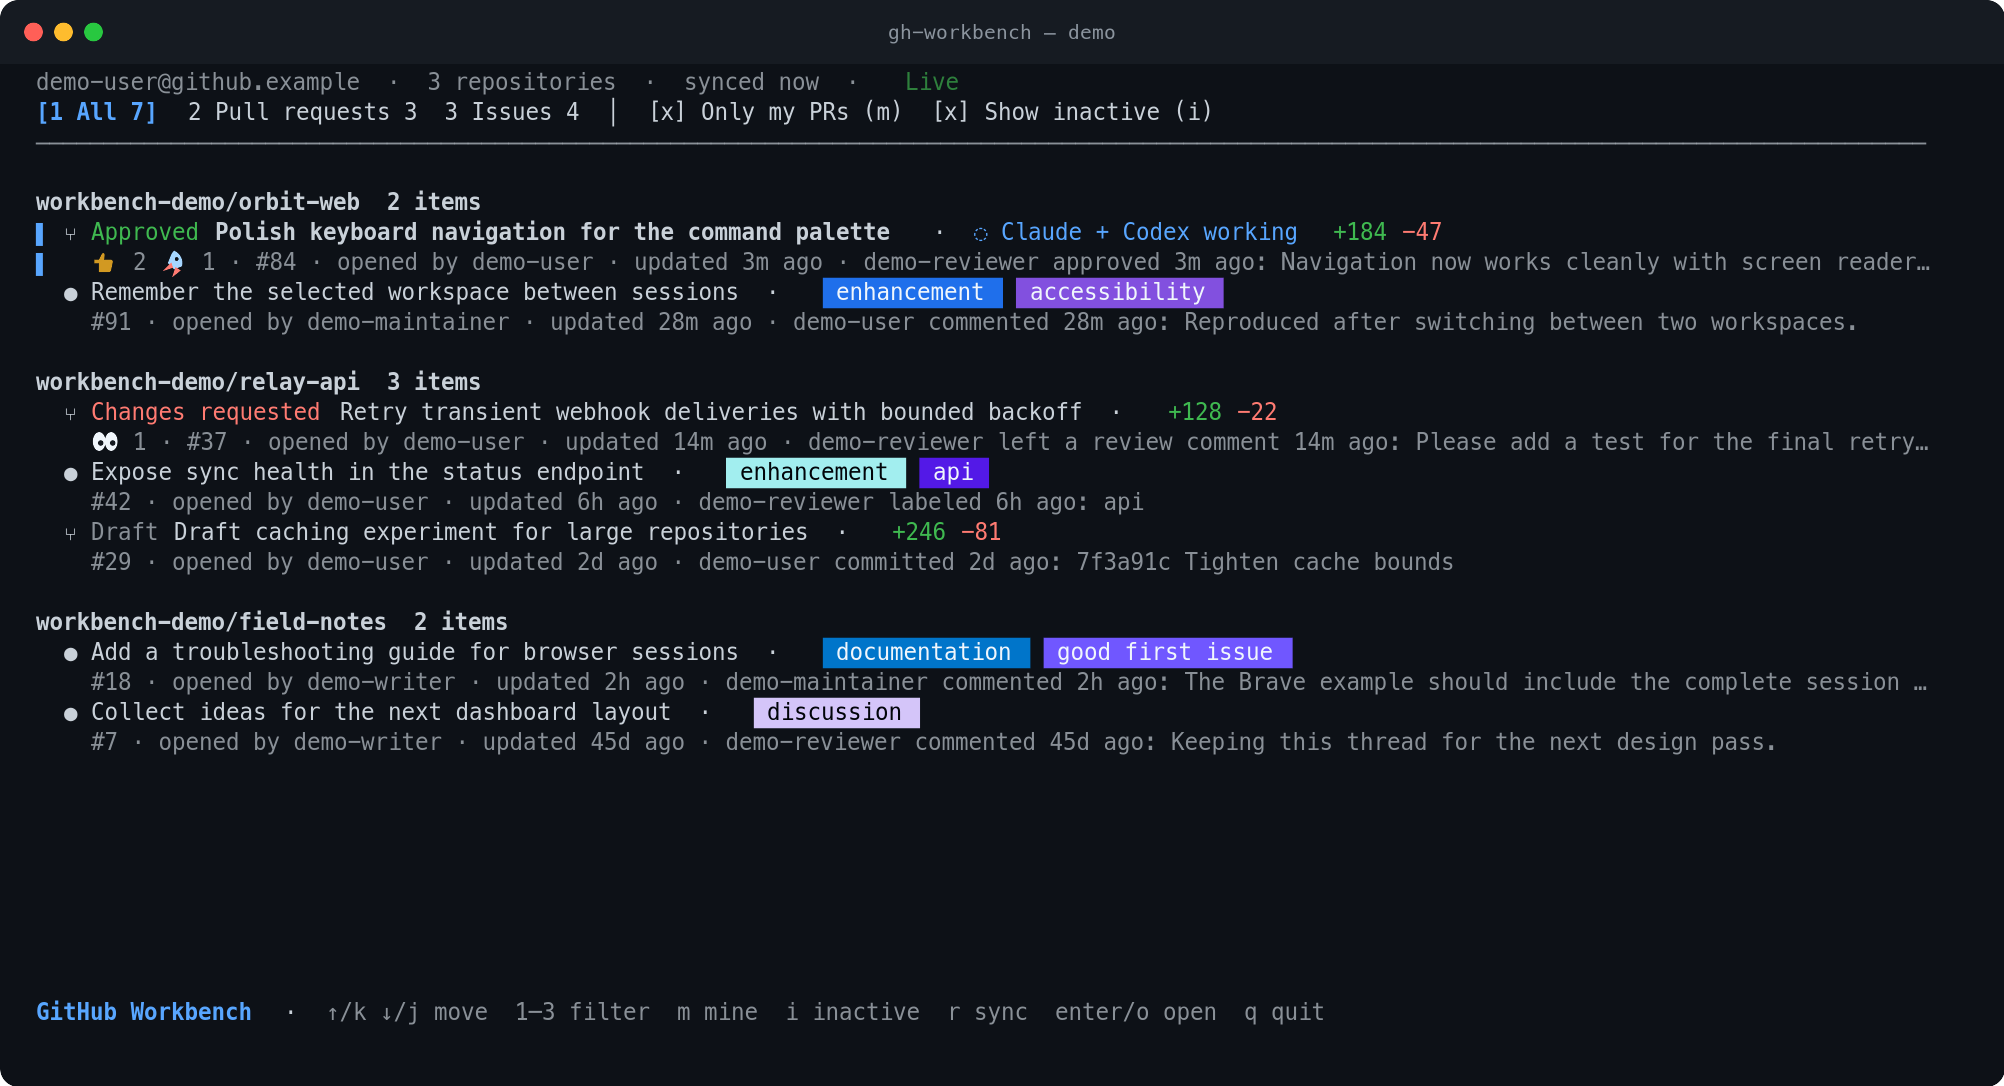
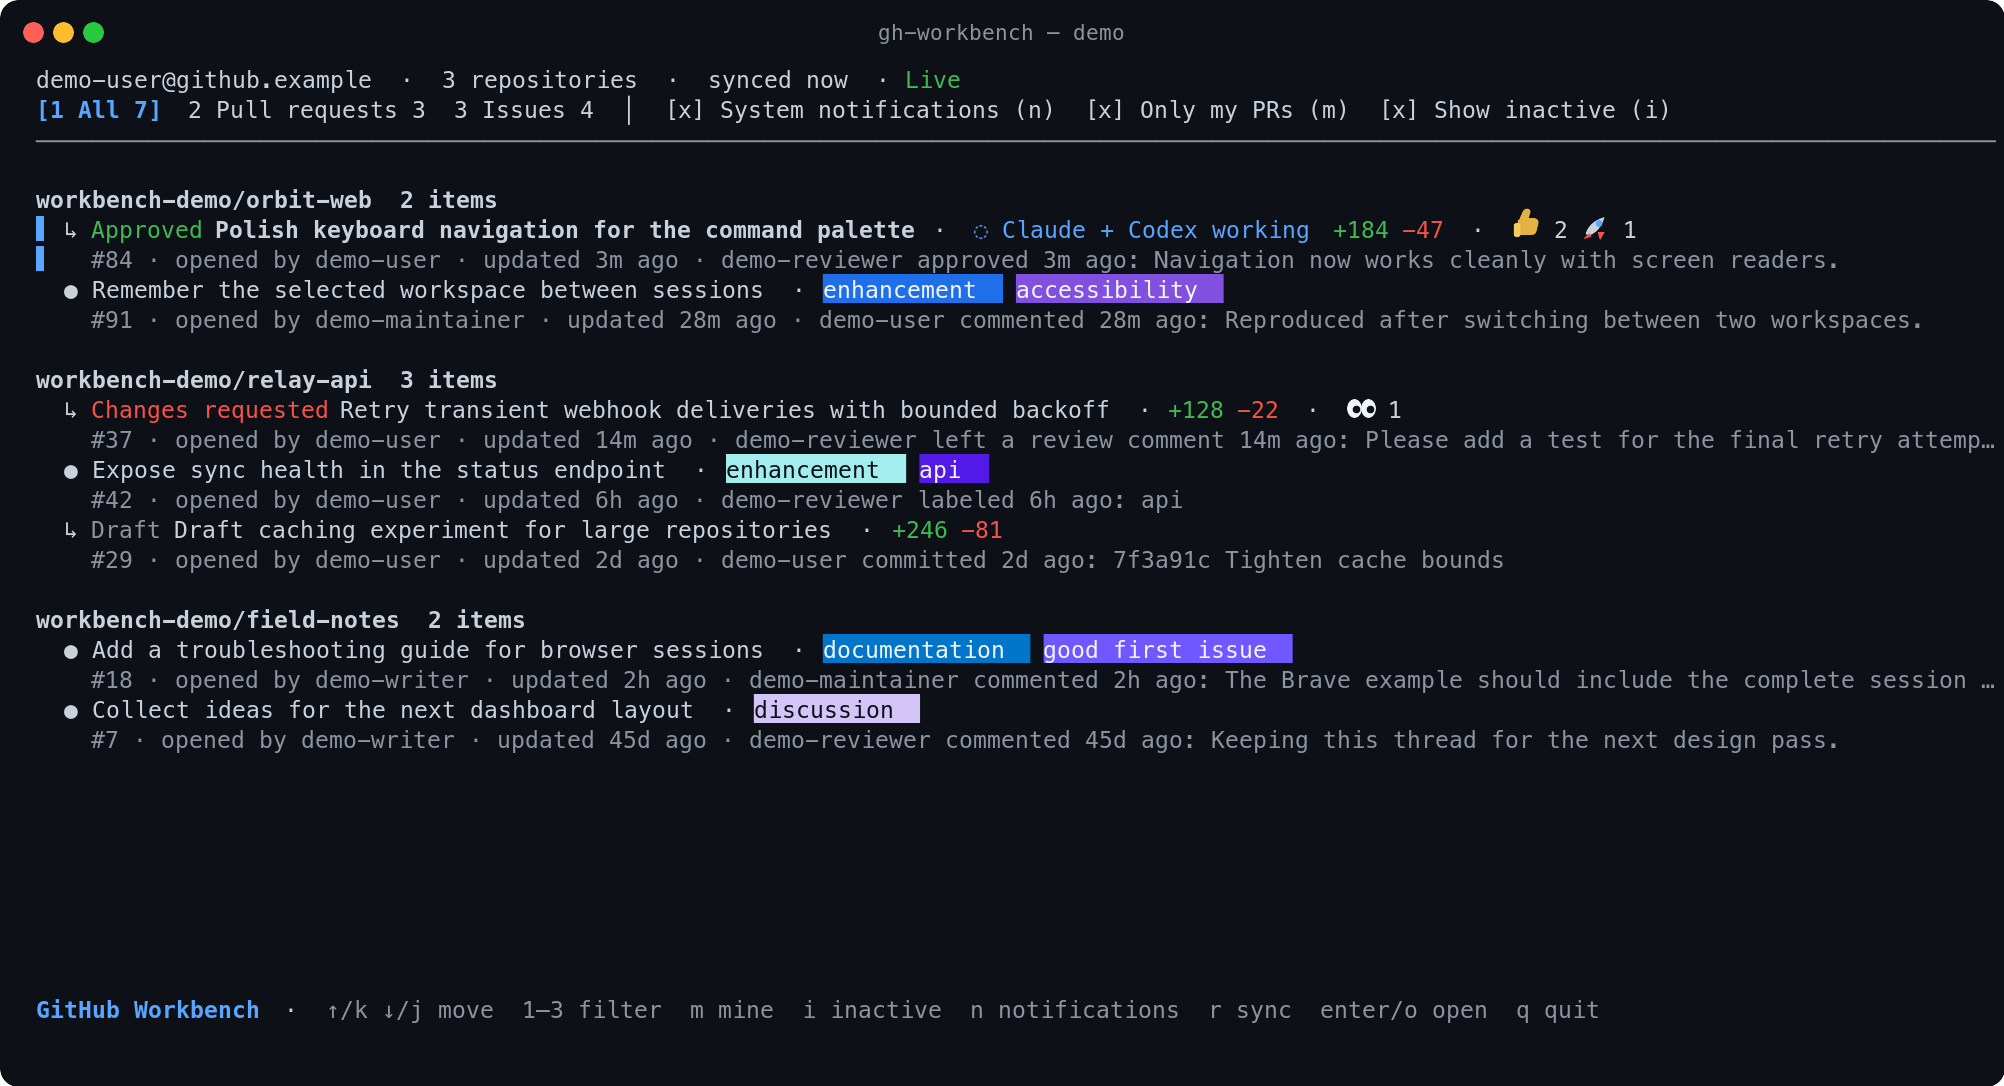
docs: update demo screenshots after rebase
Refresh the browser and terminal demo captures after the main-branch UI changes.

Align the documented local commands with the terminal-default CLI and browser opt-in flow.

diff --git a/README.md b/README.md
@@ -148,10 +148,10 @@ built-in synthetic snapshot:
 pnpm --dir web build
 
 # Browser
-go run ./cmd/gh-workbench --demo
+go run ./cmd/gh-workbench --demo --browser
 
 # Terminal
-go run ./cmd/gh-workbench --demo --ui tui
+go run ./cmd/gh-workbench --demo
 ```
 
 Demo mode runs entirely from memory and leaves GitHub credentials, GitHub APIs,
